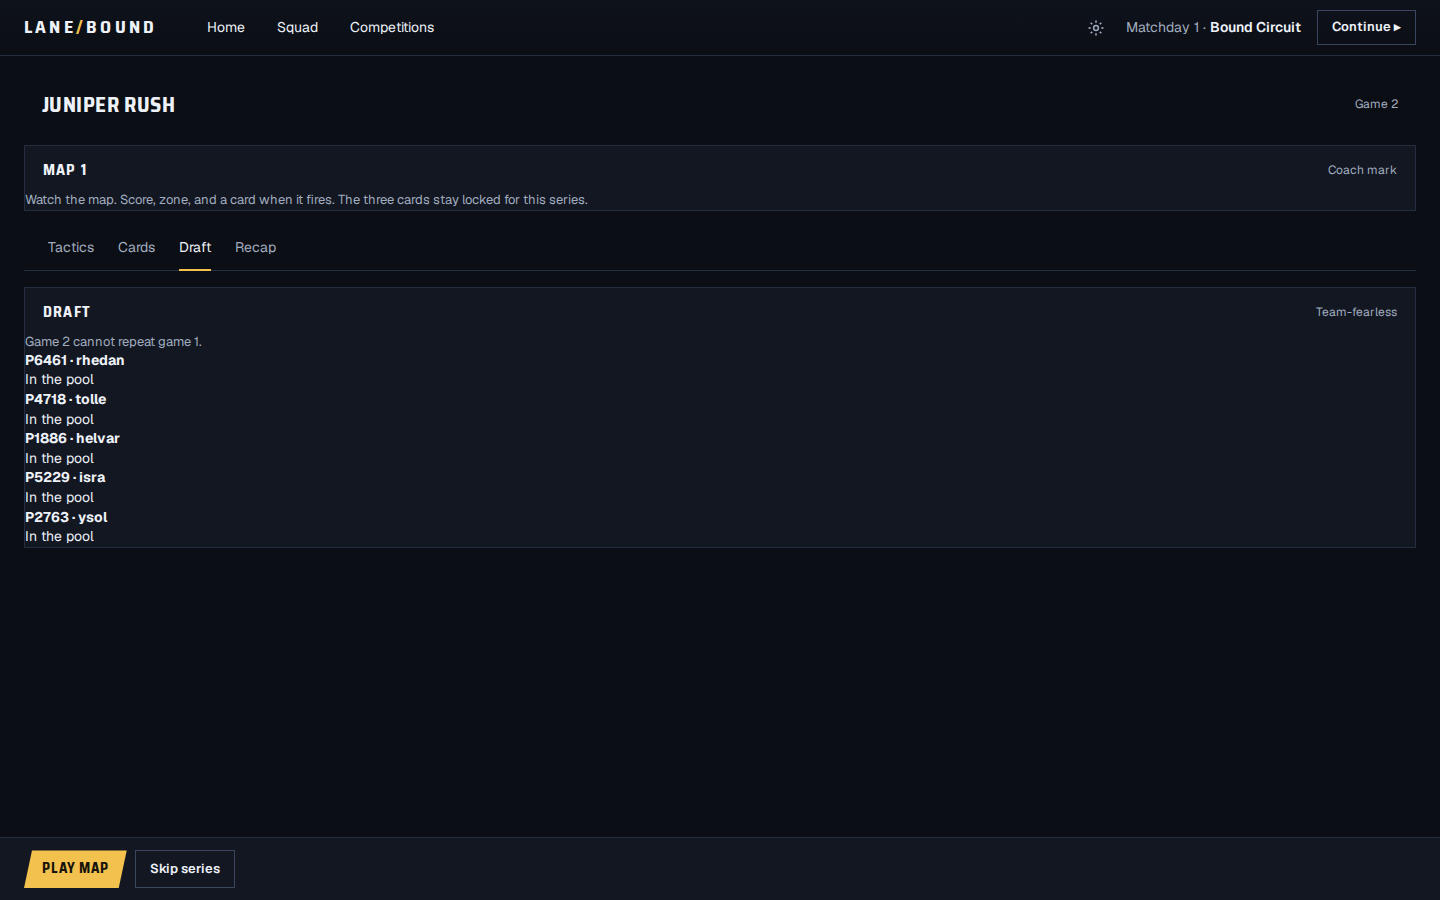
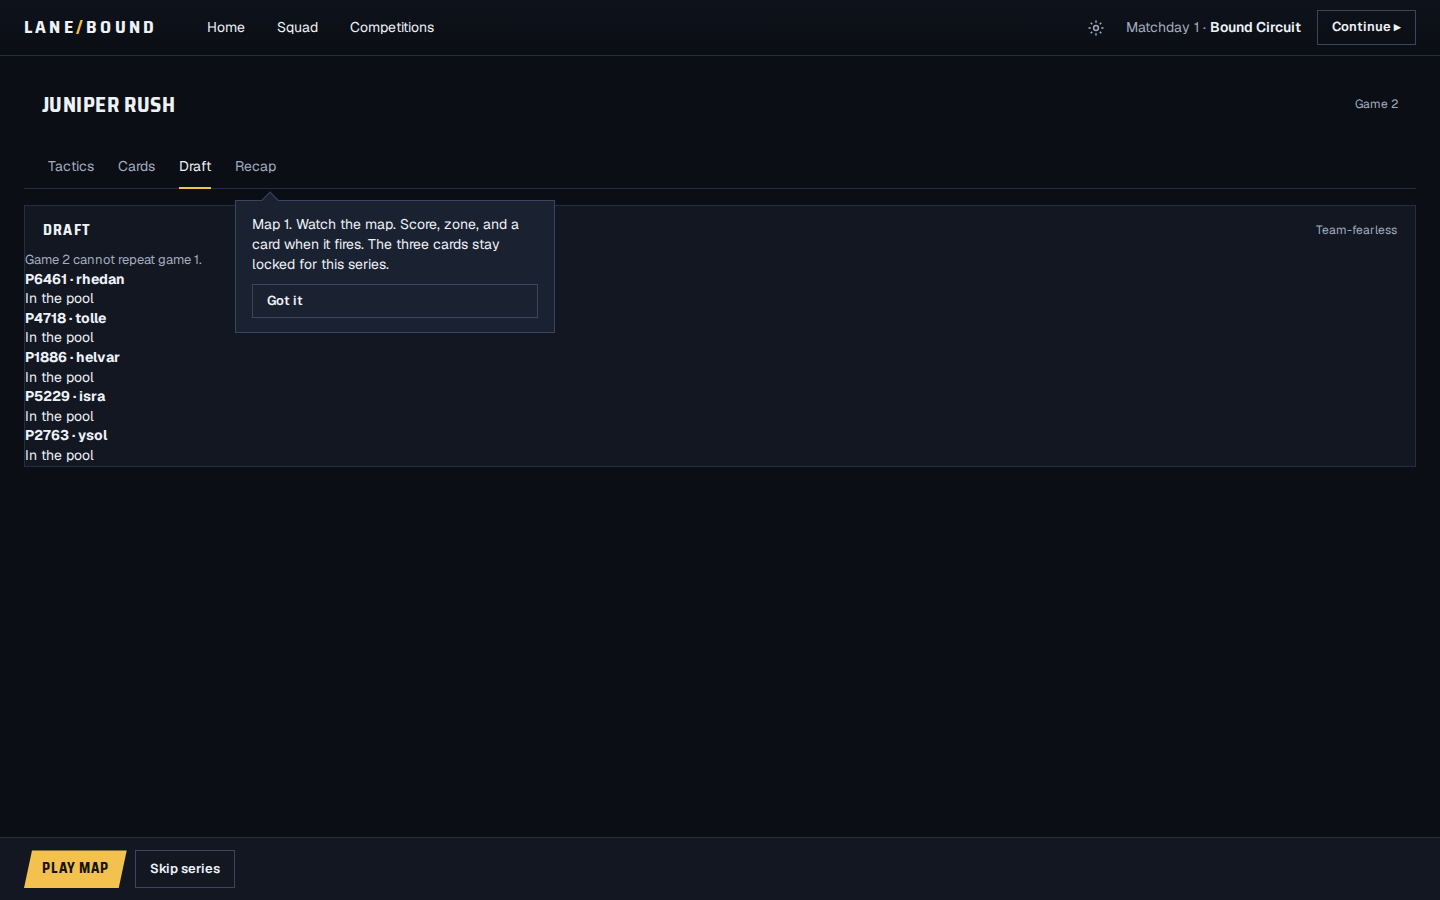
Float the coach mark over its target.
The callout is fixed, 320px wide, with a caret and a Got it button. Opening it leaves the target's box where it was, and Play map stays clickable underneath.

diff --git a/apps/career/src/match.tsx b/apps/career/src/match.tsx
@@ -1,5 +1,5 @@
 import { arenaCard, draftPreview, latestMap, loadoutReport, playNextMap, setLoadout, setPreset, skipSeries, ARENA_CARDS, type CareerSession } from "@lanebound/career";
-import { useState } from "react";
+import { useLayoutEffect, useState } from "react";
 import { Button } from "./ui/button";
 
 const TACTIC = [
@@ -43,7 +43,10 @@ export function MatchDeck({
   const draft = draftPreview(session);
   const club = session.clubs.find((item) => item.id === session.player_club_id);
   const map = latestMap(session);
-  const mark = session.maps_played >= 1 && session.maps_played <= 5 ? COACH[session.maps_played - 1] : null;
+  const [hiddenMark, setHiddenMark] = useState<number | null>(null);
+  const markIndex = session.maps_played;
+  const mark = markIndex >= 1 && markIndex <= 5 && hiddenMark !== markIndex ? COACH[markIndex - 1] : null;
+  const coachTarget = markIndex <= 2 ? "recap" : markIndex === 3 ? "draft" : markIndex === 4 ? "tactics" : "play";
 
   return (
     <main className="wrap matchdeck" data-screen="match">
@@ -52,18 +55,9 @@ export function MatchDeck({
         <h2 className="disp">{club?.name}</h2>
         <span className="meta">{draft.fixture_id ? `Game ${draft.game_index}` : "Season complete"}</span>
       </div>
-      {mark ? (
-        <section className="card" data-composed="coach-mark" data-testid="coach-mark">
-          <div className="ch">
-            <h3>Map {session.maps_played}</h3>
-            <span className="meta">Coach mark</span>
-          </div>
-          <p className="note">{mark}</p>
-        </section>
-      ) : null}
       <div className="subtabs" data-testid="match-tabs">
         {PANES.map(([id, label]) => (
-          <button key={id} type="button" className={mode === id ? "on" : ""} onClick={() => onMode(id)}>
+          <button key={id} type="button" className={mode === id ? "on" : ""} data-coach-target={id} onClick={() => onMode(id)}>
             {label}
           </button>
         ))}
@@ -150,6 +144,7 @@ export function MatchDeck({
             <Button
               variant="primary"
               data-testid="play-map"
+              data-coach-target="play"
               disabled={!draft.fixture_id}
               onClick={() => {
                 onSession(playNextMap(session));
@@ -170,7 +165,30 @@ export function MatchDeck({
               Skip series
             </Button>
       </div>
+      {mark ? <CoachMark text={`Map ${markIndex}. ${mark}`} target={coachTarget} onClose={() => setHiddenMark(markIndex)} /> : null}
     </main>
+  );
+}
+
+function CoachMark({ text, target, onClose }: { text: string; target: string; onClose: () => void }) {
+  const [place, setPlace] = useState({ top: 72, left: 24 });
+  useLayoutEffect(() => {
+    const el = document.querySelector(`[data-coach-target="${target}"]`);
+    if (!el) return;
+    const rect = el.getBoundingClientRect();
+    const width = 320;
+    const left = Math.min(Math.max(16, rect.left), window.innerWidth - width - 16);
+    const top = Math.min(rect.bottom + 12, window.innerHeight - 220);
+    setPlace({ top, left });
+  }, [target, text]);
+  return (
+    <aside className="coach" data-composed="coach-mark" data-testid="coach-mark" style={{ top: place.top, left: place.left }}>
+      <span className="coachcaret" aria-hidden="true" />
+      <p>{text}</p>
+      <Button variant="secondary" onClick={onClose}>
+        Got it
+      </Button>
+    </aside>
   );
 }
 

diff --git a/apps/career/e2e/cd-c6.spec.ts b/apps/career/e2e/cd-c6.spec.ts
@@ -62,6 +62,25 @@ test("the match footer stays on screen and Play map is the only gold button", as
   await expect(page.locator("button.btn-primary:not([disabled])")).toHaveCount(1);
 });
 
+test("the coach mark floats and leaves its target where it was", async ({ page }) => {
+  await page.setViewportSize({ width: 1440, height: 900 });
+  await start(page);
+  await page.getByRole("button", { name: "Continue" }).click();
+  const target = page.locator("[data-coach-target='recap']");
+  const before = await target.boundingBox();
+  await page.getByTestId("play-map").click();
+  const mark = page.getByTestId("coach-mark");
+  await expect(mark).toBeVisible();
+  const after = await target.boundingBox();
+  expect(before).not.toBeNull();
+  expect(after).toEqual(before);
+  const place = await mark.evaluate((el) => getComputedStyle(el).position);
+  expect(place === "fixed" || place === "absolute").toBe(true);
+  await expect(mark.locator(".coachcaret")).toBeVisible();
+  const width = await mark.evaluate((el) => el.getBoundingClientRect().width);
+  expect(width).toBeLessThanOrEqual(320);
+});
+
 async function expectOne(page: Page, screen: string) {
   for (const pane of ["tactics", "cards", "draft"]) {
     await expect(page.locator(`section[data-screen="${pane}"]`)).toHaveCount(pane === screen ? 1 : 0);

diff --git a/apps/career/src/app.css b/apps/career/src/app.css
@@ -67,6 +67,9 @@ button.btn-primary:disabled {
 .matchdeck { height: calc(100vh - 56px); display: flex; flex-direction: column; overflow: hidden; padding: 0; gap: 0; }
 .matchscroll { flex: 1; min-height: 0; overflow: auto; padding: 20px 24px; display: grid; gap: 16px; align-content: start; }
 .matchfoot { position: sticky; bottom: 0; background: var(--c-panel); border-top: 1px solid var(--c-line); padding: 12px 24px; display: flex; gap: 8px; z-index: 5; }
+.coach { position: fixed; z-index: 15; width: 320px; max-width: 320px; background: var(--c-panel-2); border: 1px solid var(--c-line-2); padding: 14px 16px; display: grid; gap: 10px; }
+.coach p { margin: 0; }
+.coachcaret { position: absolute; top: -7px; left: 28px; width: 12px; height: 12px; background: var(--c-panel-2); border-left: 1px solid var(--c-line-2); border-top: 1px solid var(--c-line-2); transform: rotate(45deg); }
 .sub { display: flex; gap: 8px; }
 .sub button.on { background: var(--c-panel-2); }
 .match { border: 1px solid var(--c-line); padding: 12px; display: grid; gap: 6px; }
